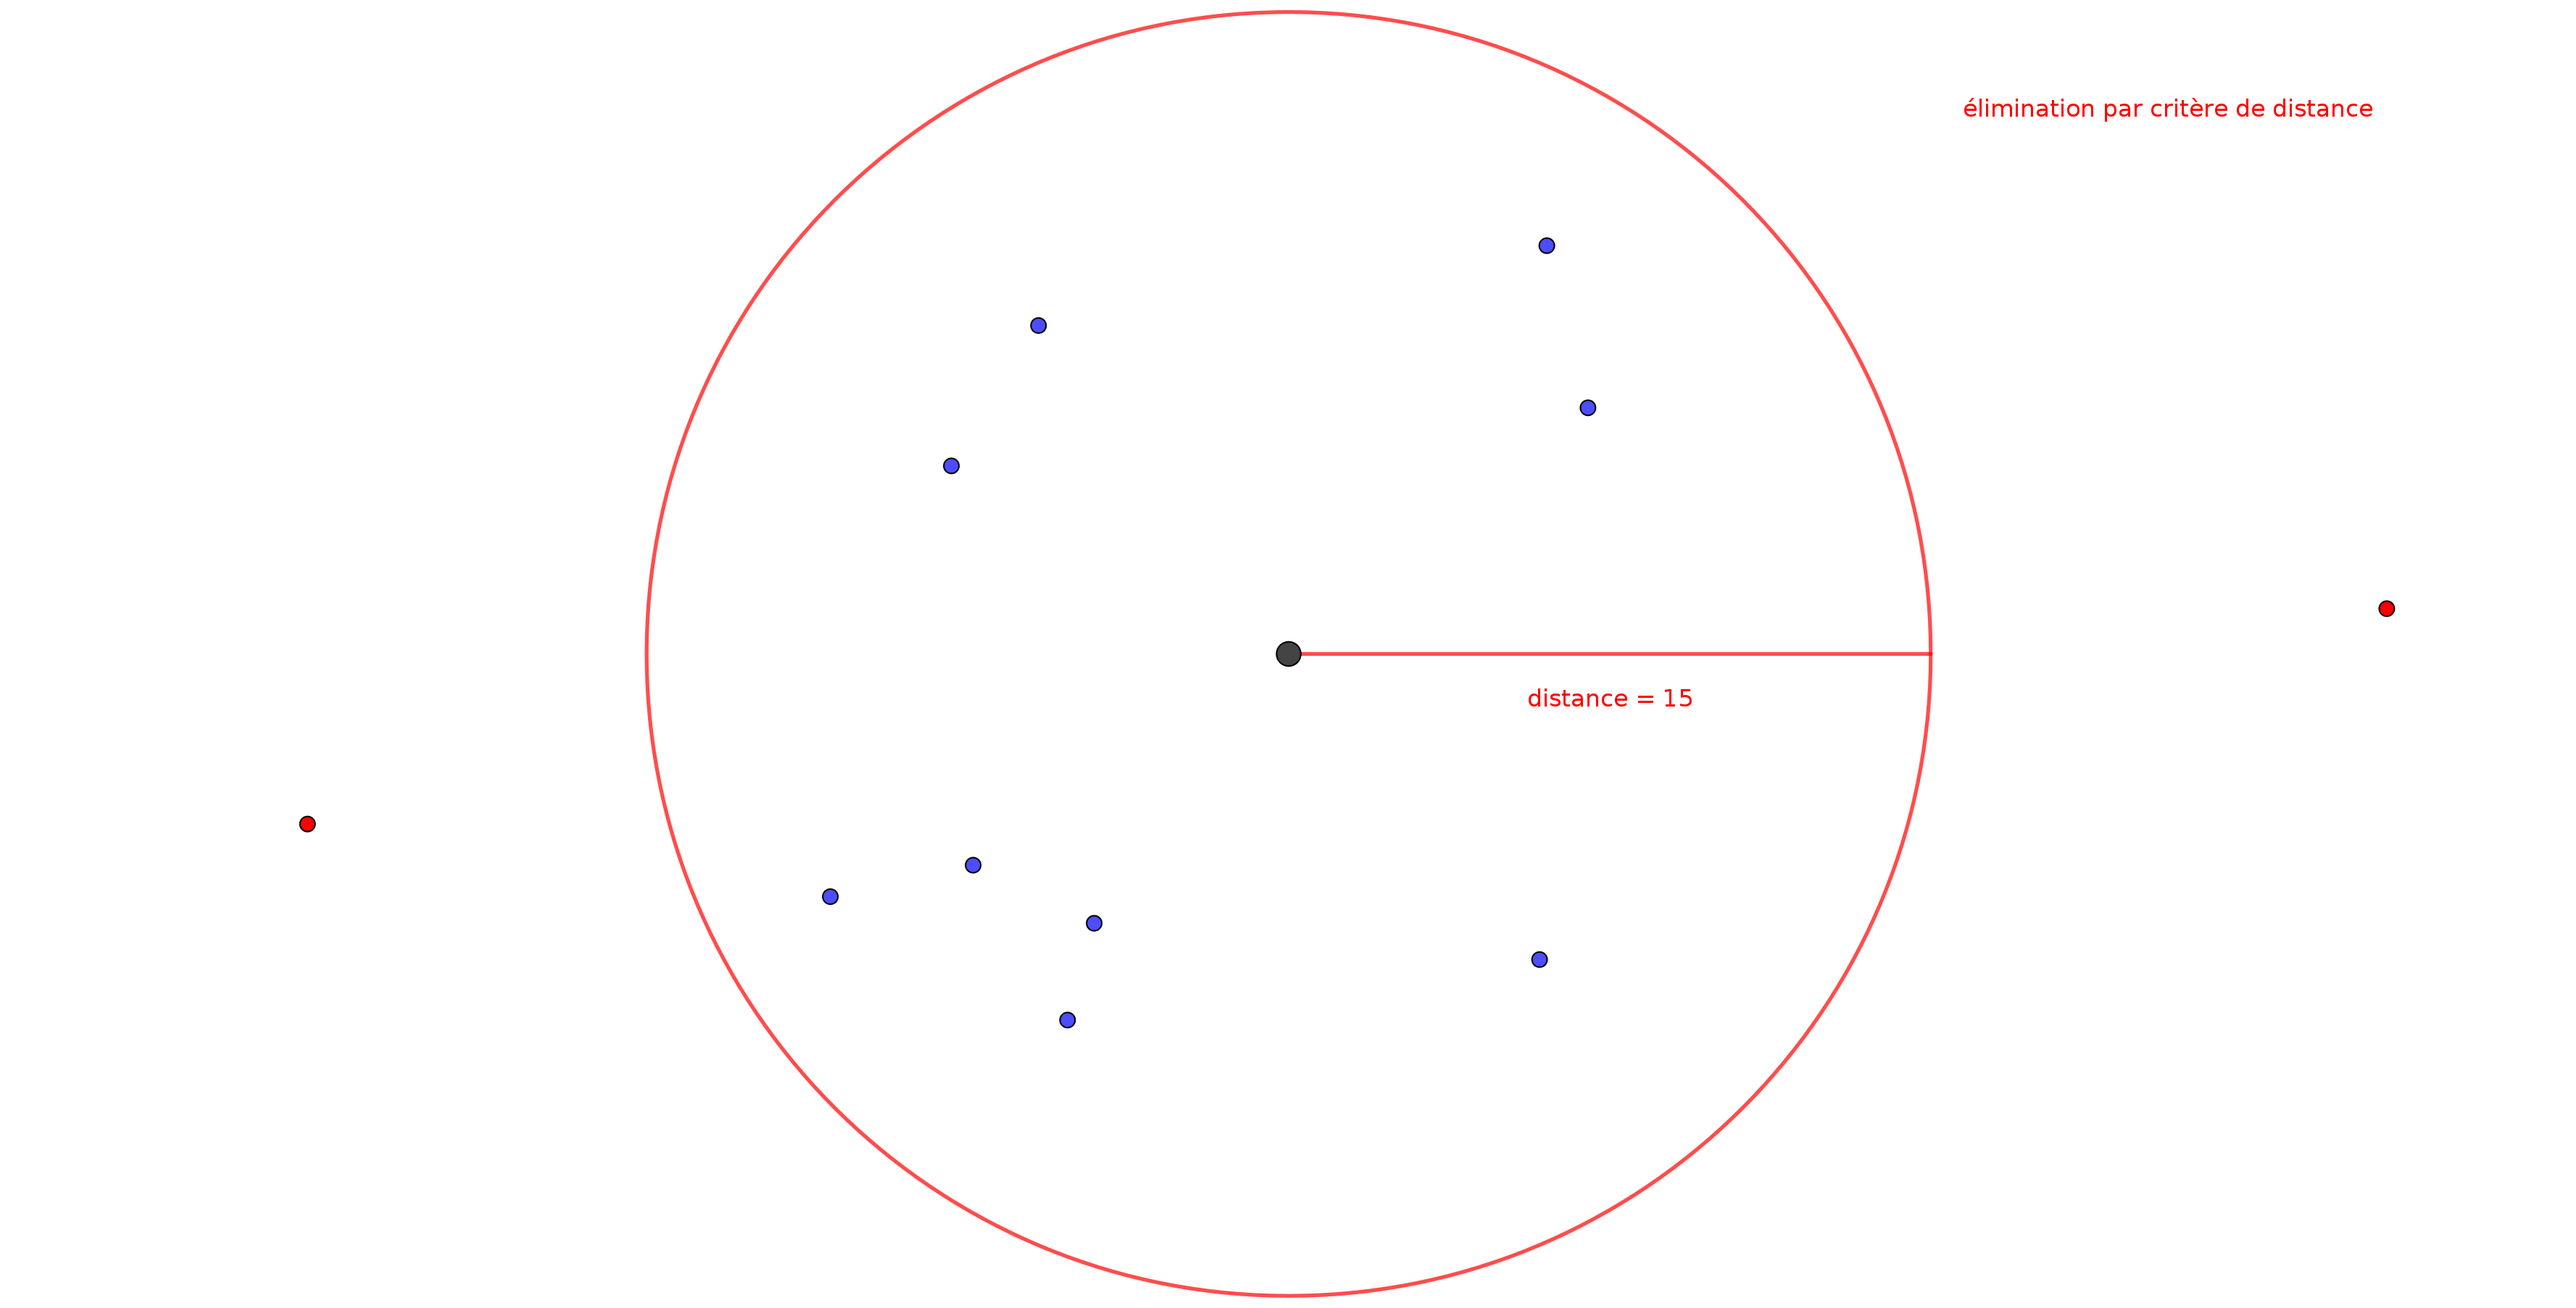
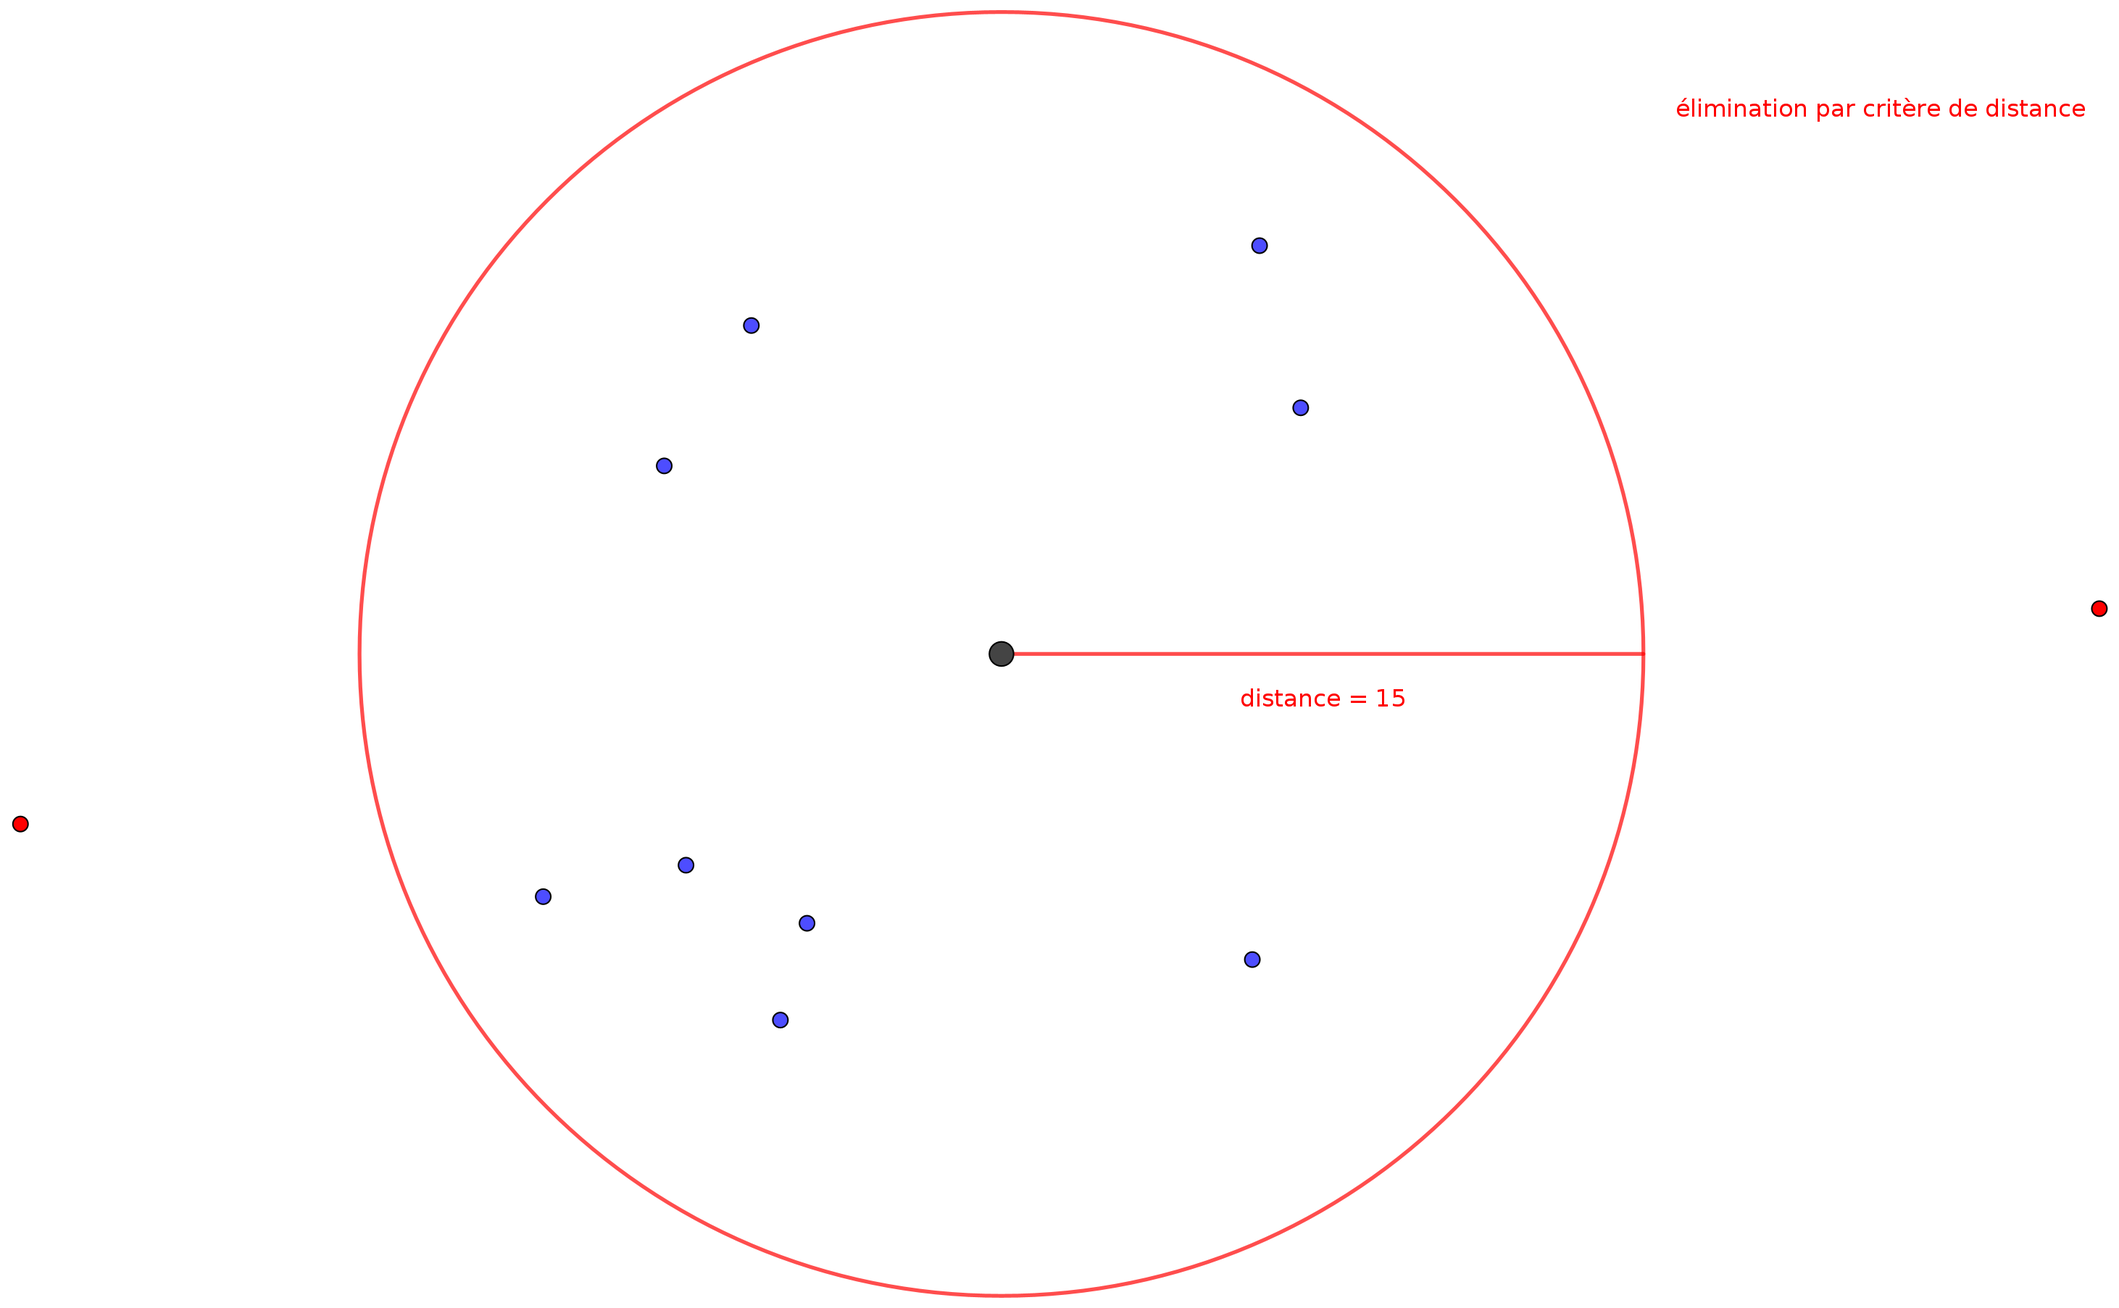
Modification de la taille des images et ajout de boites autour

diff --git a/weeks/21-05_28-05.tex b/weeks/21-05_28-05.tex
@@ -98,7 +98,7 @@
         \end{column}
         \begin{column}{0.55\paperwidth}
             \begin{figure}
-                \includegraphics[width=0.5\paperwidth]{images/criteria_illustrations/distance.png}
+                \boxed{\includegraphics[width=0.5\paperwidth]{images/criteria_illustrations/distance.png}}
                 \caption{\label{fig:distance_crit}Illustration du critère de distance}
             \end{figure}
         \end{column}
@@ -117,7 +117,7 @@
         \end{column}
         \begin{column}{0.55\paperwidth}
             \begin{figure}
-                \includegraphics[width=0.5\paperwidth]{images/criteria_illustrations/cadrants.png}
+                \boxed{\includegraphics[width=0.5\paperwidth]{images/criteria_illustrations/cadrants.png}}
                 \caption{\label{fig:cadrants_crit}Illustration du critère des cadrants}
             \end{figure}
         \end{column}
@@ -136,7 +136,7 @@
         \end{column}
         \begin{column}{0.55\paperwidth}
             \begin{figure}
-                \includegraphics[width=0.5\paperwidth]{images/criteria_illustrations/angle.png}
+                \boxed{\includegraphics[width=0.5\paperwidth]{images/criteria_illustrations/angle.png}}
                 \caption{\label{fig:angle_crit}Illustration du critère de l'angle}
             \end{figure}
         \end{column}
@@ -146,7 +146,7 @@
 \begin{frame}{Voisins réels}
     Voici donc ce que l'on obtient à la fin, un graphe de voisinage :
     \begin{figure}
-        \includegraphics[width=0.6\paperwidth]{images/criteria_illustrations/final.png}
+        \boxed{\includegraphics[height=0.55\paperheight]{images/criteria_illustrations/final.png}}
         \caption{\label{fig:result_crit}Résultat final - voisins réels}
     \end{figure}
 \end{frame}
